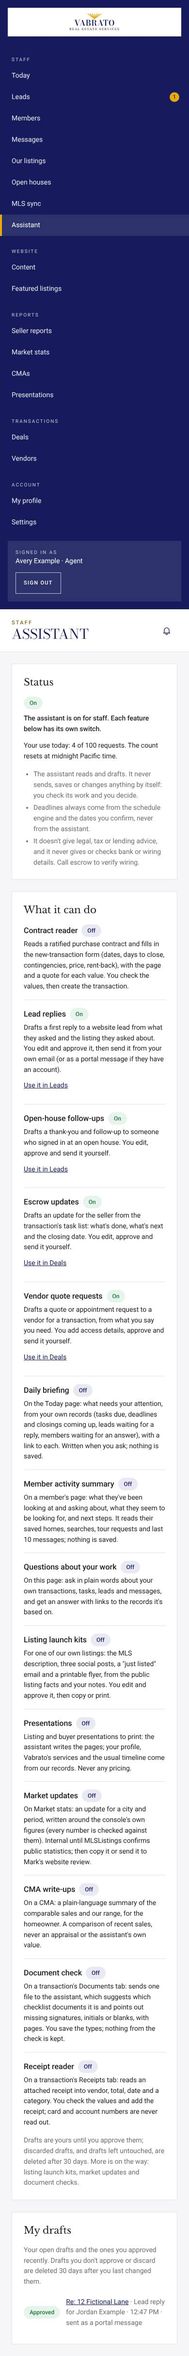
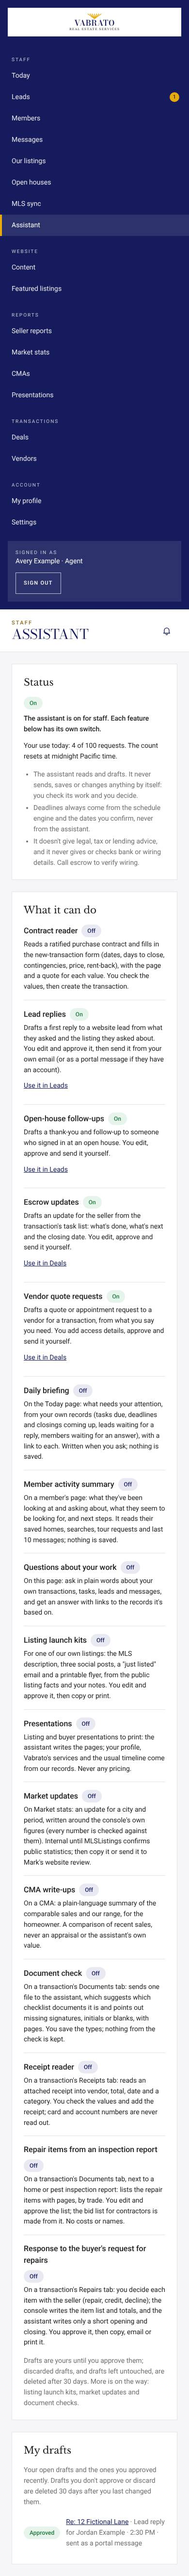
qa(va): S6b PR 7b browser QA passes (36 checks); screenshots; STATUS
Claude-Session: https://claude.ai/code/session_01KCcaPhxMjUuJ61eR3JeHDj

Changed region(s): [[0.0, 0.0, 1.0, 0.9957], [0.3692, 0.0, 0.6154, 0.0311]]

diff --git a/docs/STATUS.md b/docs/STATUS.md
@@ -1007,7 +1007,12 @@ document checks, receipts, calendar drafts).
     - 4 action tests (another deal's report refused).
     - `lib/numbers.ts` is now shared with market updates. The existing
       guard test keeps the Files API out of the Claude client.
-    - Browser QA `scripts/qa/s6b-repairs.mjs`: QA_RESULT.
+    - Browser QA `scripts/qa/s6b-repairs.mjs`: 36 checks pass on the local
+      stack with the fake Claude (incl. a tampered stored list rebuilt at
+      approval, invented and spelled-out amounts blocked, an agent without
+      deal access getting a 404, axe at 1440 and 390 px). The 7a and PR 2–6
+      scripts still pass (47, 64, 42, 28, 34, 24). Screenshots in
+      `docs/screenshots/s6b-repairs/`.
   - **After merge:** apply 0033 on your OK, then
     `packages/db/test/hosted-repairs-check.sql` (rolled back; passes
     locally).
